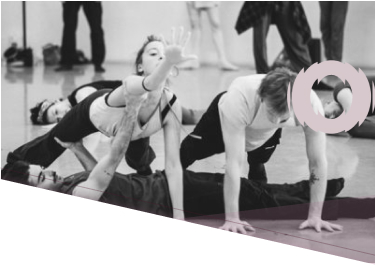
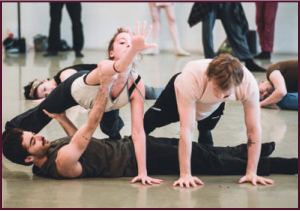
image fixing

diff --git a/client/src/store/VoorstellingStore.js b/client/src/store/VoorstellingStore.js
@@ -16,6 +16,14 @@ import afscheidUser from "../assets/user/afscheidennieuwbegin.png";
 import doncarlosUser from "../assets/user/doncarlos.png";
 import mozartUser from "../assets/user/mozart.png";
 import requiemUser from "../assets/user/requiem.png";
+
+import backUserGroot from "../assets/user/bachGroot.png";
+import demonsUserGroot from "../assets/user/demons.png";
+import macbethUserGroot from "../assets/user/macbethGroot.png";
+import afscheidUserGroot from "../assets/user/afscheidennieuwbegin.png";
+import doncarlosUserGroot from "../assets/user/doncarlos.png";
+import mozartUserGroot from "../assets/user/mozart.png";
+import requiemUserGroot from "../assets/user/requiem.png";
 class VoorstellingStore {
   voorstellingen = [];
 
@@ -29,6 +37,7 @@ class VoorstellingStore {
       `3u`,
       `1x15min`,
       macbethUser,
+      macbethUserGroot,
       macbeth,
       `antwerpen`,
       2,
@@ -42,6 +51,7 @@ class VoorstellingStore {
       `2u`,
       `1x15min`,
       demonsUser,
+      demonsUserGroot,
       demons,
       `antwerpen`,
       2,
@@ -55,6 +65,7 @@ class VoorstellingStore {
       `2u`,
       `1xpauze`,
       doncarlosUser,
+      doncarlosUserGroot,
       doncarlos,
       `antwerpen`,
       2,
@@ -68,6 +79,7 @@ class VoorstellingStore {
       `2u`,
       `1xpauze`,
       afscheidUser,
+      afscheidUserGroot,
       afscheid,
       `antwerpen`,
       2,
@@ -81,6 +93,7 @@ class VoorstellingStore {
       `1u45`,
       `1x`,
       bachUser,
+      backUserGroot,
       bach,
       `gent`,
       1,
@@ -94,6 +107,7 @@ class VoorstellingStore {
       `2u`,
       `1xpauze`,
       afscheidUser,
+      afscheidUserGroot,
       afscheid,
       `gent`,
       1,
@@ -107,6 +121,7 @@ class VoorstellingStore {
       `2u`,
       `1xpauze`,
       mozartUser,
+      mozartUserGroot,
       mozart,
       `gent`,
       1,
@@ -120,6 +135,7 @@ class VoorstellingStore {
       `2u`,
       `1xpauze`,
       requiemUser,
+      requiemUserGroot,
       requiem,
       `gent`,
       1,

diff --git a/client/src/models/Voorstelling.jsx b/client/src/models/Voorstelling.jsx
@@ -6,6 +6,7 @@ class Voorstelling {
     duur,
     pauze,
     imageUser,
+    imageUserGroot,
     imageAdmin,
     plaats,
     zaalId,
@@ -17,6 +18,7 @@ class Voorstelling {
     this.duur = duur;
     this.pauze = pauze;
     this.imageUser = imageUser;
+    this.imageUserGroot = imageUserGroot;
     this.imageAdmin = imageAdmin;
     this.plaats = plaats;
     this.zaalId = zaalId;

diff --git a/client/src/components/user/Voorstelling.jsx b/client/src/components/user/Voorstelling.jsx
@@ -14,7 +14,7 @@ const Voorstelling = ({ voorstelling }) => {
   return (
     <>
       <img
-        src={voorstelling.imageUser}
+        src={voorstelling.imageUserGroot}
         alt="foto"
         className={styles.foto}
         width="375"
